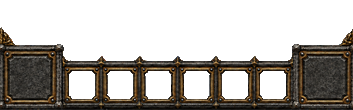
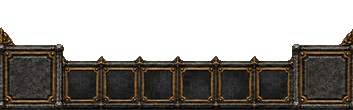
The HUD from design 02, raised stone slots (v1.9.217)
The belt cells are painted on this master, so the cutter falls back to hand-measured cell rects when the alpha finds no holes; keying and the sphere split are as for the draft.

Changed region(s): [[0.187, 0.6273, 0.5921, 0.9273], [0.6232, 0.6273, 0.8102, 0.9]]

diff --git a/Source/oracool/hud_plate_skin.h b/Source/oracool/hud_plate_skin.h
@@ -5,7 +5,7 @@
  * script and re-run it; the five PNGs it writes and these numbers come from the same pass.
  *
  * The fifth bottom HUD (Oracool.MPQ/02-source-art/delivered-packs/diablo-bottom-hud-v1, cut from
- * 03-transparent-slot-visual-draft.png with its checkerboard keyed out, at scale 0.288). Every
+ * 02-raised-stone-slot-design.png with its checkerboard keyed out, at scale 0.288). Every
  * number is in SCREEN pixels; the plate's rects are PLATE-local, the orbs' are local to their own
  * piece. The three pieces share one bottom edge and butt together left to right: health cradle,
  * plate, mana cradle. The sphere centre and radius are measured from the painting's own spheres,
@@ -25,7 +25,7 @@ constexpr Size PlateSize { 353, 110 };
 constexpr Rectangle LmbWell { { 10, 52 }, { 49, 48 } };
 constexpr Rectangle RmbWell { { 299, 53 }, { 50, 48 } };
 
-/** The six belt cells are the painting's transparent holes, found by alpha. */
+/** The six belt cells: the painting's holes by alpha where it has them, its painted openings by hand where not. */
 constexpr int BeltCellX[6] = { 69, 108, 146, 184, 222, 260 };
 constexpr int BeltCellY = 71;
 constexpr Size BeltCellSize { 25, 28 };

diff --git a/.ProjectDocumentation/02-Development-Reports/2026-09-05 - The Fifth HUD, Orbs and All.md b/.ProjectDocumentation/02-Development-Reports/2026-09-05 - The Fifth HUD, Orbs and All.md
@@ -53,3 +53,9 @@ The sphere's crown now sits 2px above `SidePanelContentBottom`; while a side pan
 It is not the same render as the true-alpha files (45% of shared pixels differ by more than 30), so the choice is real. It has no alpha, so `CutHudPlate.ps1` now recovers it, in C# inside the script: near-white and light-grey neutral pixels in connected regions of 1500+ px are keyed out (the ground, the six holes); single stray pixels are despeckled; opaque islands under 200 px (checker fragments inside the holes) are dropped; and bright neutral pixels touching transparency (the seams clinging to the frame) are eaten in two passes. Band 1934x382 at (3,214) - 1-3px larger than the alpha sibling's, the kept anti-aliased edge.
 
 The spheres are painted, so each is split: the interior inside r-1 is made transparent in the cradle and everything inside r+2 goes to the liquid file, then both layers are resampled and cut with the same lines. The circles are hand-measured on the script's own 3x overlay (`%TEMP%\CutHudPlate\overlay.png`) after two detectors failed - one took the sphere's reflection on the stone for the sphere, the next the arch's blue highlights. Radius 35 on screen, centres (59,48) and (45,48).
+
+## Addendum, v1.9.217 - design 02, raised stone slots
+
+"use 02-raised-stone-slot-design.png as hud."
+
+Same layout, same 24-bit checkerboard, but the belt cells are painted raised stone, not holes - so the alpha finds nothing there. The cutter now carries the six cell openings as hand-measured band-local rects (design 03's holes, which share the layout; verified on the overlay against 02's painted rims) and falls back to them when it finds no holes; a count of anything but six or none still throws. Everything else - keying, spheres, cut lines - unchanged, and the generated header came out identical to v1.9.216's.
